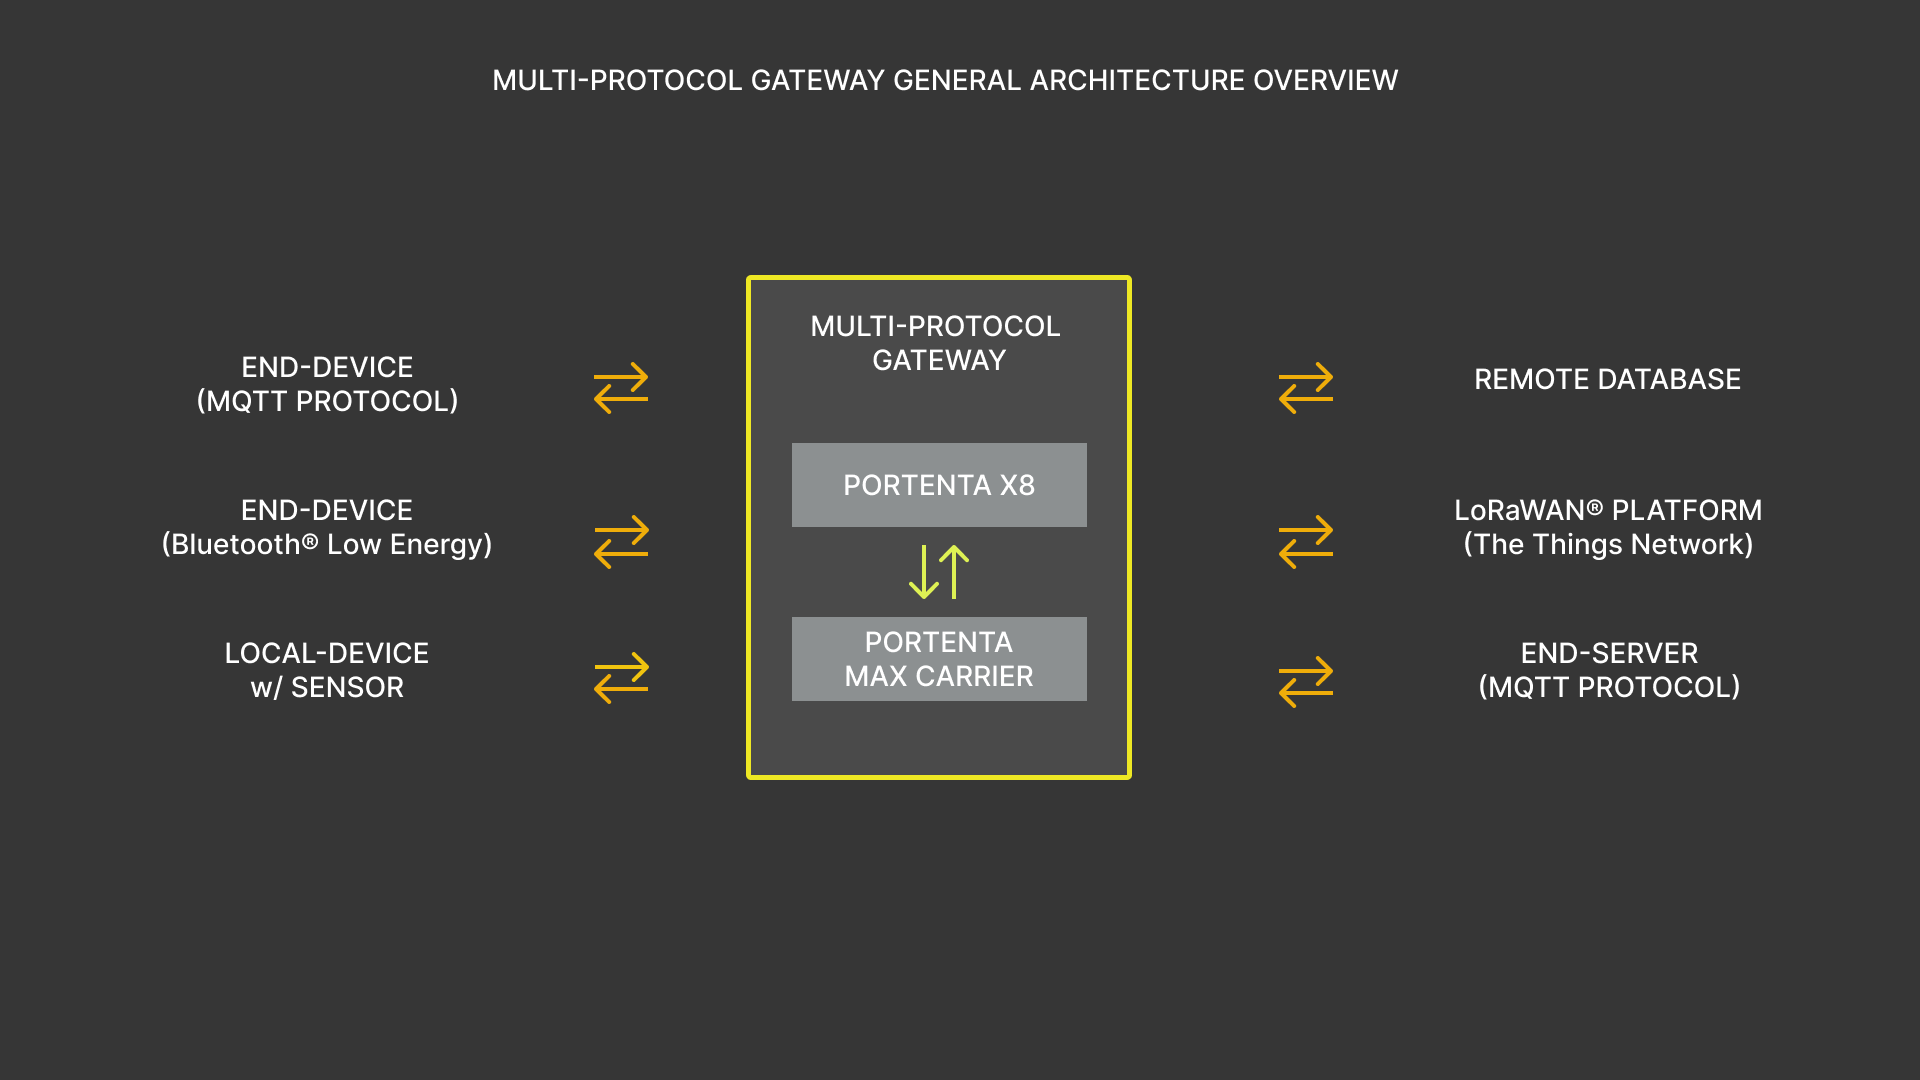
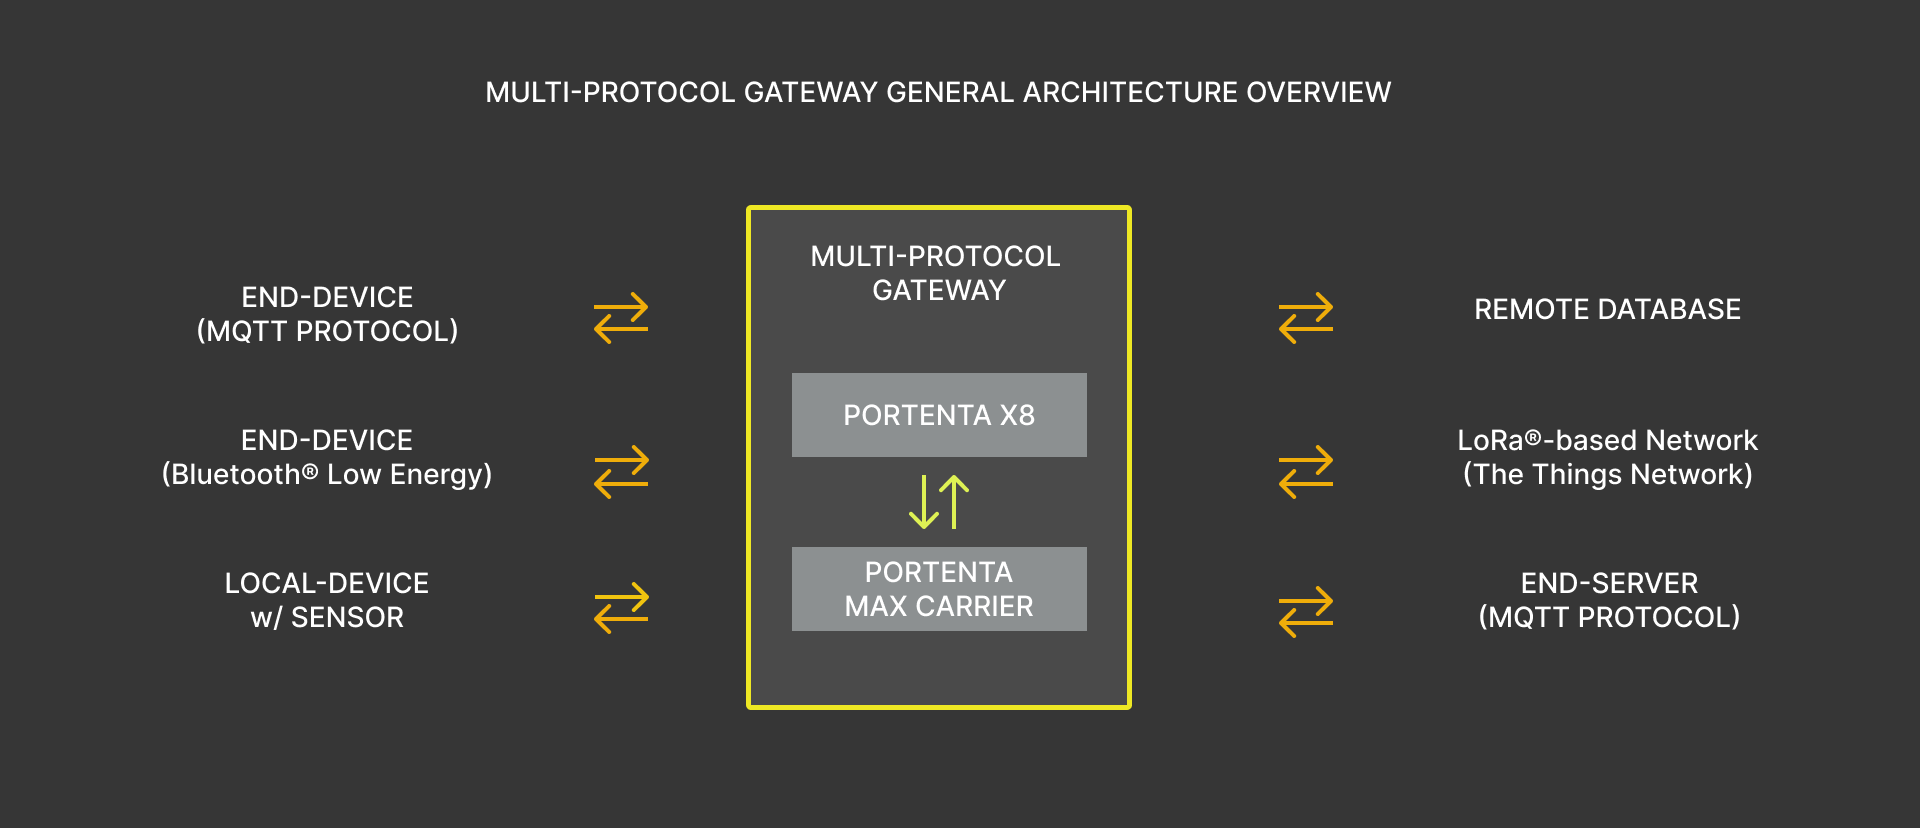
12. Multi-Protocol Gateway With Portenta X8 & Max Carrier content update (2 images updated & 1 present but by TTN - thus Pass)

diff --git a/content/hardware/04.pro/boards/portenta-x8/tutorials/12.multi-protocol-gateway/content.md b/content/hardware/04.pro/boards/portenta-x8/tutorials/12.multi-protocol-gateway/content.md
@@ -19,9 +19,9 @@ hardware:
 
 ## Overview
 
-Portenta X8 has the NXP® i.MX 8M Mini MPU (Linux) and STM32H747XI dual Cortex®-M7+M4 32bit low power ARM® MCU (Arduino) stacked together and can be used to design different workloads for these two different microprocessors. We will use the Portenta Max Carriers onboard CMWX1ZZABZ-078 LoRaWAN® module from Murata® and the Wi-Fi® connectivity from Portenta X8 to build a Multi-Protocol Gateway.
+Portenta X8 has the NXP® i.MX 8M Mini MPU (Linux) and STM32H747XI dual Cortex®-M7+M4 32bit low power ARM® MCU (Arduino) stacked together and can be used to design different workloads for these two different microprocessors. We will use the Portenta Max Carrier's onboard CMWX1ZZABZ-078 LoRa® module from Murata® and the Wi-Fi® connectivity from Portenta X8 to build a Multi-Protocol Gateway.
 
-In this tutorial, we will go through the steps on how to set up both the Linux and Arduino sides. A device collecting sensor data will transfer the data via Wi-Fi®, receive the data, and exchange them between the Arduino and Linux layers, finally using LoRaWAN® to send the information to *The Things Network*. We will also configure and expose a local communication lane to further expand its capability if a local sensor is desired.
+In this tutorial, we will go through the steps on how to set up both the Linux and Arduino sides. A device collecting sensor data will transfer the data via Wi-Fi®, receive the data and exchange them between the Arduino and Linux layers, finally using LoRa® technology to send the information to *The Things Network*. We will also configure and expose a local communication lane to further expand its capability if a local sensor is desired.
 
 ## Goals
 
@@ -52,7 +52,7 @@ The Portenta X8 paired with the Portenta Max Carrier has the potential to create
 
 - Wi-Fi® (MQTT Protocol, API calls, custom protocols)
 - Bluetooth® Low Energy
-- LoRaWAN® (*The Things Network*)
+- LoRa®-based networks (*The Things Network*)
 - NB-IoT & Cat-M1
 
 The following image illustrates an architecture overview of a multi-protocol gateway composed of Portenta X8 and Max Carrier as the gateway system.
@@ -78,9 +78,9 @@ The Arduino layer extends within the M4 Core, which is the layer dedicated to re
 
 ## The Linux Layer
 
-It is important to understand that **all networking processes are made within the Linux layer**. All network processes are Wi-Fi®, Bluetooth® Low Energy, LoRa®, NB-IoT, and Cat. M1. We will focus on using Wi-Fi® with MQTT protocol and LoRa® connectivities to establish a multiple protocol gateway.
+It is important to understand that **all networking processes are made within the Linux layer**. All network processes are Wi-Fi®, Bluetooth® Low Energy, LoRa® technology, NB-IoT, and Cat. M1. We will focus on using Wi-Fi® with MQTT protocol and LoRa connectivities to establish a multiple protocol gateway.
 
-The Portenta X8 provides Wi-Fi® connectivity and the Portenta Max Carrier provides a LoRaWAN® module that can help to communicate with *The Things Network*. We will use the MQTT protocol to receive sensor data transmitted by an end device.
+The Portenta X8 provides Wi-Fi® connectivity and the Portenta Max Carrier provides a LoRa®-based network module that can help to communicate with *The Things Network*. We will use the MQTT protocol to receive sensor data transmitted by an end device.
 
 We will use a Python® script to configure and handle the connectivity modules and their sensor data. The RPC calls will expose the received sensor data to the Arduino layer, setting up data exchange configuration to expand the capability of the Portenta X8 and Max Carrier. The process can also be done vice-versa, using the Arduino layer to transmit the data to the Linux layer from the local end device.
 
@@ -92,7 +92,7 @@ Now that we know the roles of Arduino and Linux layer, we will need a clear pict
 
 To showcase the ability of the Linux layer and Arduino layer extended by M4 Core, we will build a multi-protocol gateway that will receive MQTT protocol packages using EMQX as the broker, retrieve the data from a local sensor attached to Portenta via RPC mechanism, wrap the data together and send to *The Things Network* using LoRa® connectivity within Cayenne Low Power Payload Encoder.
 
-The Cayenne Low Power Payload Encoder is one of the payload formatters for data exchange between end devices and has compatibility support for Arduino boards. The encoder has the capability to decode CayenneLPP payload formats without additional custom code, and it helps simplify data transmission over LPWAN networks as LoRaWAN®.
+The Cayenne Low Power Payload Encoder is one of the payload formatters for data exchange between end devices and has compatibility support for Arduino boards. The encoder has the capability to decode CayenneLPP payload formats without additional custom code and it helps simplify data transmission over LPWAN networks.
 
 ***You can find more information regarding Cayenne Low Power Payload Encoder by following [here](https://www.thethingsindustries.com/docs/integrations/payload-formatters/cayenne/)***
 
@@ -149,13 +149,13 @@ nmcli device wifi connect "SSID" password "PASSWORD"
 
 ### Setting Up The Things Network
 
-You now have the prerequisites for the Portenta X8 ready, but since you are using the LoRa® connectivity, you will need a platform capable of receiving data transmitted from the Portenta X8 and Max Carrier. **The Things Network** will be the platform we will use to communicate using LoRaWAN®. On the platform, you will need to create an application to add the Portenta Max Carrier as an End-Device.
+You now have the prerequisites for the Portenta X8 ready, but since you are using the LoRa® connectivity, you will need a platform capable of receiving data transmitted from the Portenta X8 and Max Carrier. **The Things Network** will be the platform we will use to communicate using LoRa technology. On the platform, you will need to create an application to add the Portenta Max Carrier as an End-Device.
 
-**Manual** option will be used when adding the End-Device. The Portenta Max Carrier will be added under Arduino SA to be included within the LoRaWAN® Device Repository. The LoRaWAN® version and parameters compatible with the Portenta Max Carrier are as follows. The frequency plan will depend on the region in which you are going to install the device.
+**Manual** option will be used when adding the End-Device. The Portenta Max Carrier will be added under Arduino SA to be included within the LoRa®-enabled Device Repository. The LoRa-based network version and parameters compatible with the Portenta Max Carrier are as follows. The frequency plan will depend on the region in which you are going to install the device.
 
 ![General End-Device Configuration](assets/ttn-end-device.png)
 
-***To learn more about LoRa® and LoRaWAN®, please have a look at our [Arduino Guide to LoRa® and LoRaWAN®](https://docs.arduino.cc/learn/communication/lorawan-101). Additionally, if you wish to learn how to properly set up the End-Device in The Things Network, please read [this tutorial](https://docs.arduino.cc/tutorials/mkr-wan-1310/the-things-network) reference***
+***To learn more about LoRa® and its networks, please have a look in [this documentation](https://docs.arduino.cc/learn/communication/lorawan-101). Additionally, if you wish to learn how to properly set up the End-Device in The Things Network, please read [this tutorial](https://docs.arduino.cc/tutorials/mkr-wan-1310/the-things-network) reference***
 
 We will now build a multi-protocol gateway using Portenta X8 and Max Carrier.
 
@@ -258,7 +258,7 @@ mqtt_username = 'emqx'
 mqtt_password = 'public'
 ```
 
-These 2 parameters are required to establish a connection with *The Things Network*. The `APP_EUI` and `APP_KEY` are required to be configured, as they are provided by *The Things Network* or from the LoRaWAN® platform that you may try to establish the connection. Additionally the `DEV_EUI` will be predefined as the device will request and apply the EUI. However, if it requires different `DEV_EUI`, you can make the change in this section.
+These 2 parameters are required to establish a connection with *The Things Network*. The `APP_EUI` and `APP_KEY` are required to be configured, as they are provided by *The Things Network* or from the LoRa®-based network platform that you may try to establish the connection. Additionally the `DEV_EUI` will be predefined as the device will request and apply the EUI. However, if it requires different `DEV_EUI`, you can make the change in this section.
 
 ```python
 # Obtained during the first registration of the device
@@ -552,11 +552,11 @@ If you are curious about what to expect from the build you have made in this tut
 
 ## Conclusion
 
-In this tutorial, you have learned how to set up a Multi-Protocol Gateway composed of MQTT protocol, RPC, and LoRaWAN®, by using the Portenta X8 and the Portenta Max Carrier. You have built the gateway that will connect to *The Things Network* to send the desired data. Also, the gateway is capable of exchanging data between Arduino and Linux layers using RPC, in which you have exposed the ports to be able to receive data from the local sensor to be sent directly to *The Things Network*.
+In this tutorial, you have learned how to set up a Multi-Protocol Gateway composed of MQTT protocol, RPC and LoRa® technology, by using the Portenta X8 and the Portenta Max Carrier. You have built the gateway that will connect to *The Things Network* to send the desired data. Also, the gateway is capable of exchanging data between Arduino and Linux layers using RPC, in which you have exposed the ports to be able to receive data from the local sensor to be sent directly to *The Things Network*.
 
 ### Next Steps
 
-- Now that you have developed a multi-protocol gateway, using Wi-Fi® and LoRaWAN® connectivity, expand the gateway's capability by adding other connectivity types such as Cat. M1 and NB-IoT.
+- Now that you have developed a multi-protocol gateway, using Wi-Fi® and LoRa® connectivity, expand the gateway's capability by adding other connectivity types such as Cat. M1 and NB-IoT.
 - Expand functionalities for data processing using RPC while using multi-protocol architecture.
 
 ## Troubleshooting
@@ -568,3 +568,7 @@ You might encounter some errors or misbehaviors while working on the code, preve
 * If you encounter an issue regarding terminal input inconvenience, please enter `export TERM=xterm` as the command in the terminal to get readable inputs.
 * In case an internal Wi-Fi® connection cannot be established through the command input due to "unavailable" SSID, although it is in range. Please try using a different SSID if available or a hotspot from a different device to host network connectivity.  
 * If you encounter a docker image conflict when running after building, please make sure you have used a name tag that matches the one from the `docker-compose.yml` file.
+
+## Trademark Acknowledgments
+
+- **LoRa®** is a registered trademark of Semtech Corporation.
